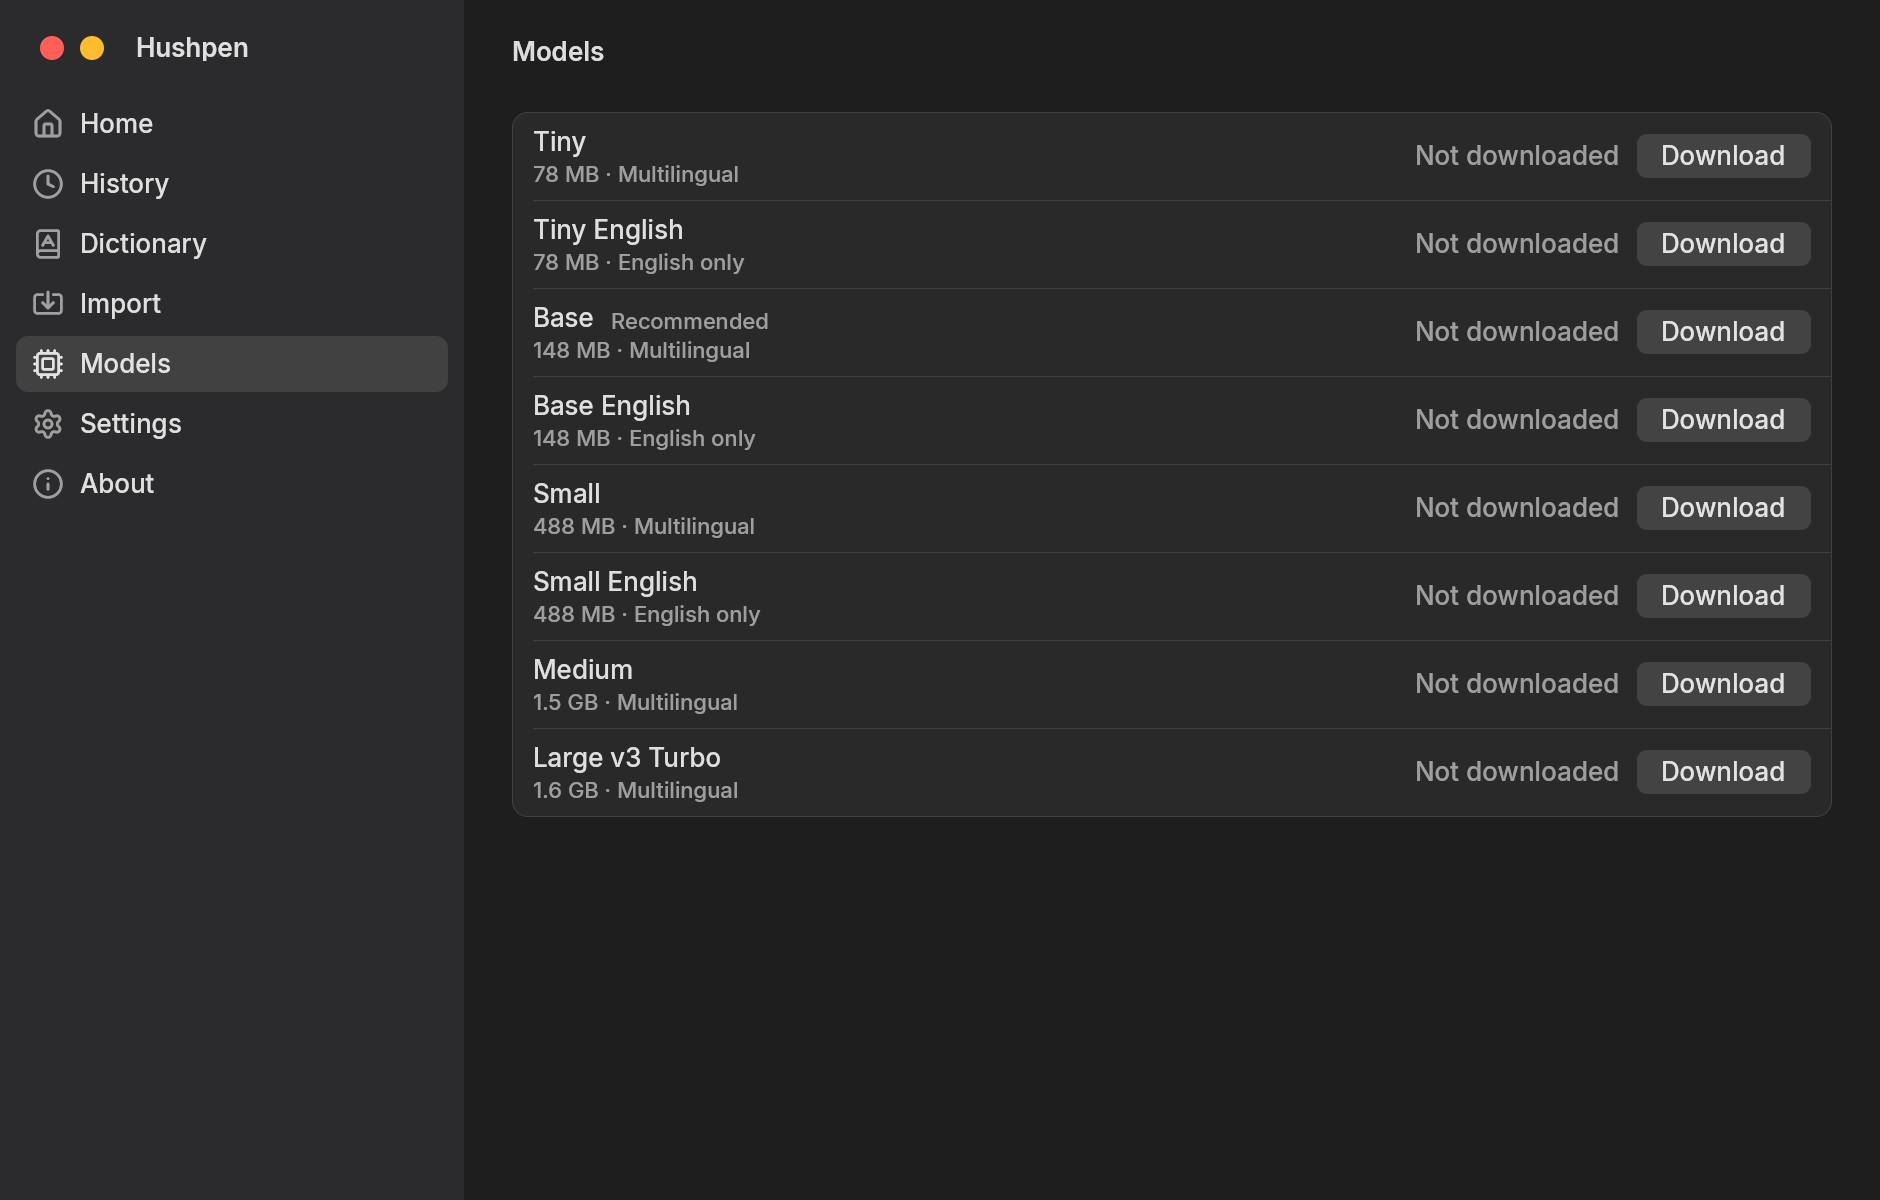
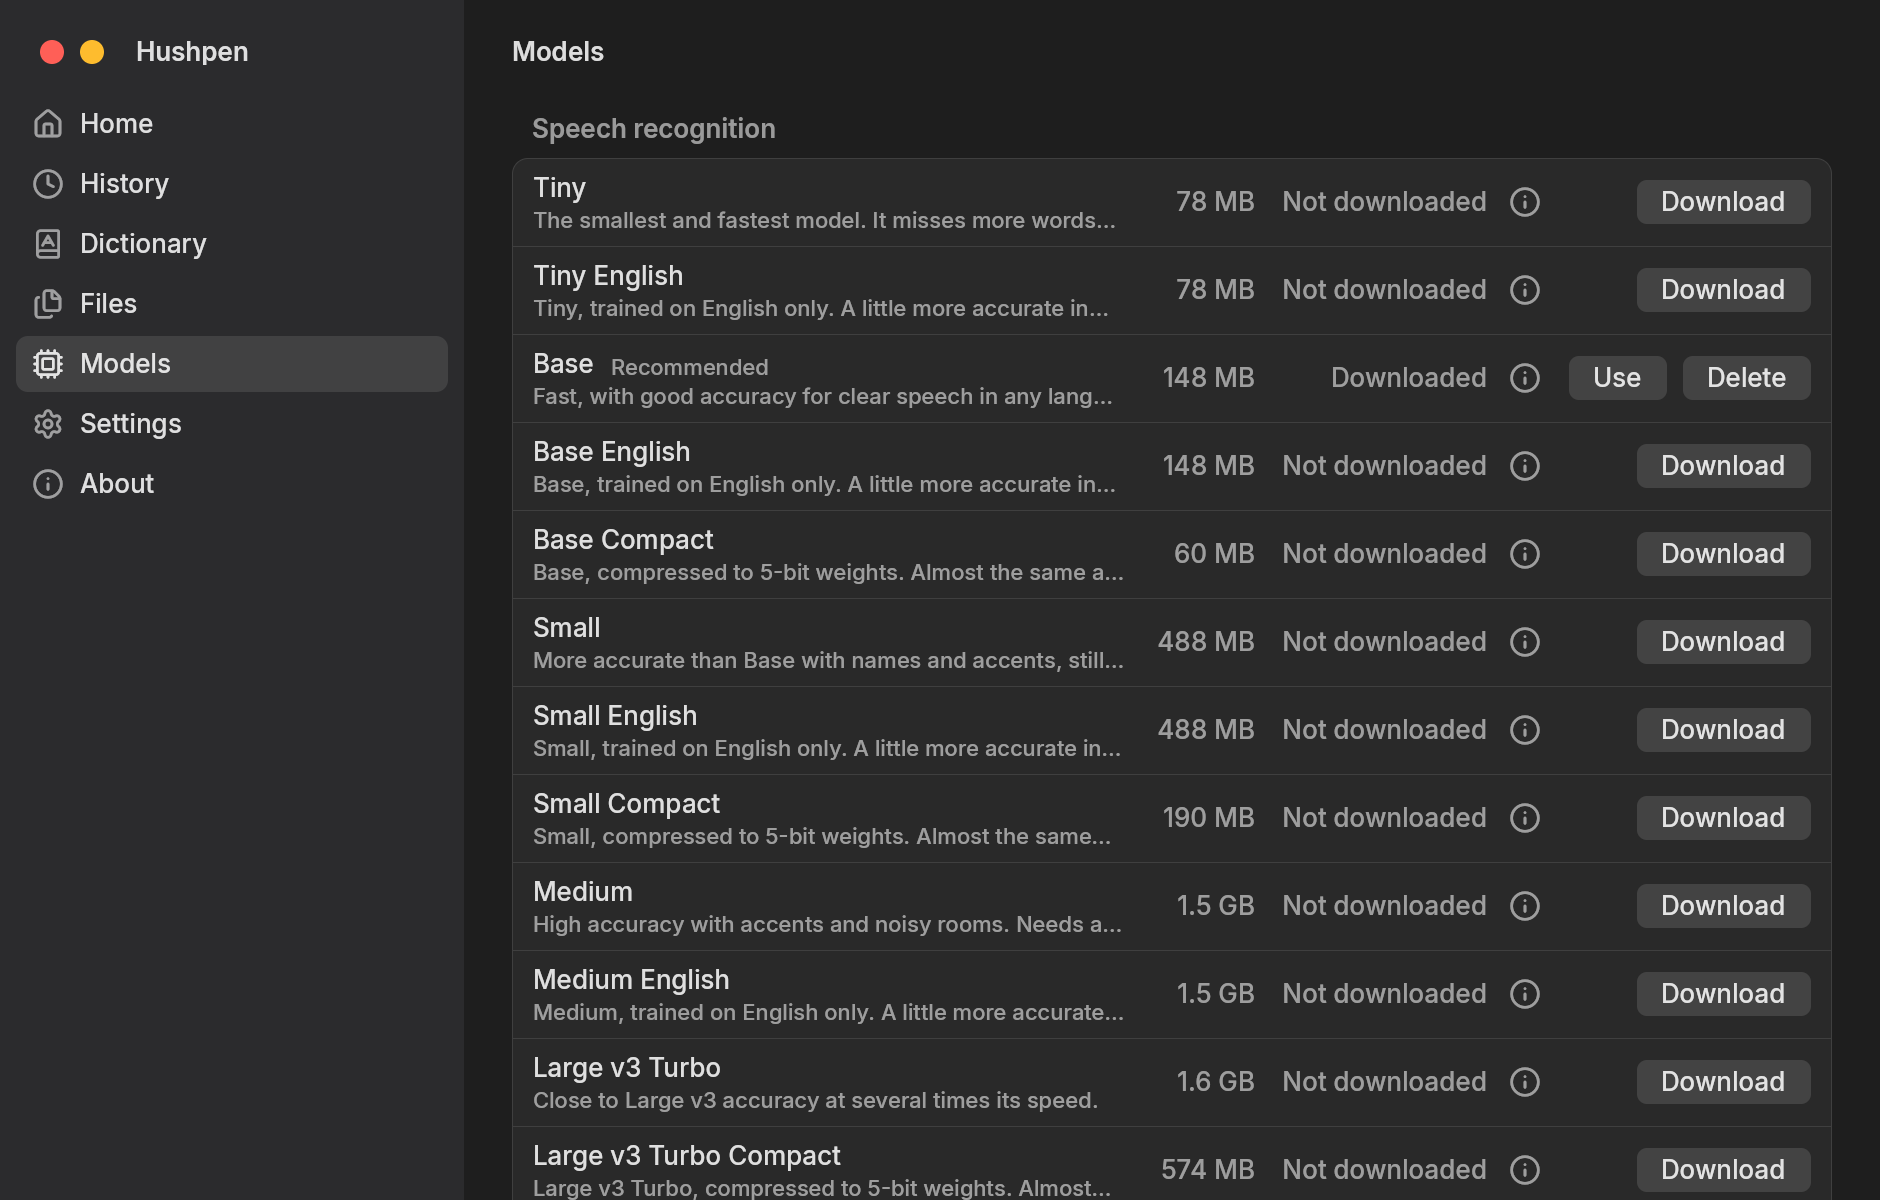
Show Files and Read aloud on the docs site
The screenshots still showed the Import view and the old Models list.
They now come from the current Dark renders, with two new slides.

diff --git a/docs/index.html b/docs/index.html
@@ -45,7 +45,7 @@
             </div>
             <div class="terminal-row">
               <span class="terminal-key">local models</span>
-              <span>Whisper models from tiny to large-v3, plus cleanup and voice models. Each one shows its speed, accuracy, and source, and downloads only when you ask, with a checked hash.</span>
+              <span>Whisper models from Tiny to Large v3, plus text cleanup and voice models. Each one shows what it is for, its speed, accuracy, and source, and downloads only when you ask, with a checked hash.</span>
             </div>
             <div class="terminal-row">
               <span class="terminal-key">paste</span>
@@ -143,9 +143,23 @@
 
           <figure class="screenshot-slide" aria-hidden="true">
             <div class="screenshot-frame">
-              <img src="./screenshots/hushpen-models.png" alt="Hushpen Models view listing Whisper models from Tiny to Large v3 Turbo" />
+              <img src="./screenshots/hushpen-files.png" alt="Hushpen Files view in Transcribe mode with the drop zone and the transcription options" />
             </div>
-            <figcaption><strong>Models</strong><span>Whisper models, downloaded only when you ask</span></figcaption>
+            <figcaption><strong>Files</strong><span>drop audio files to transcribe or translate them in a queue</span></figcaption>
+          </figure>
+
+          <figure class="screenshot-slide" aria-hidden="true">
+            <div class="screenshot-frame">
+              <img src="./screenshots/hushpen-read-aloud.png" alt="Hushpen Files view in Read aloud mode with the text area and the voice settings" />
+            </div>
+            <figcaption><strong>Read aloud</strong><span>text or a text file, spoken by the system voice or Kokoro</span></figcaption>
+          </figure>
+
+          <figure class="screenshot-slide" aria-hidden="true">
+            <div class="screenshot-frame">
+              <img src="./screenshots/hushpen-models.png" alt="Hushpen Models view at the speech recognition section, with the size, status, and details button of each Whisper model" />
+            </div>
+            <figcaption><strong>Models</strong><span>speech, text cleanup, and voice models, downloaded only when you ask</span></figcaption>
           </figure>
 
           <figure class="screenshot-slide" aria-hidden="true">
@@ -159,6 +173,8 @@
         <div class="carousel-dots" aria-label="Choose screenshot">
           <button type="button" aria-label="Show Home screenshot" aria-current="true" data-carousel-dot></button>
           <button type="button" aria-label="Show History screenshot" data-carousel-dot></button>
+          <button type="button" aria-label="Show Files screenshot" data-carousel-dot></button>
+          <button type="button" aria-label="Show Read aloud screenshot" data-carousel-dot></button>
           <button type="button" aria-label="Show Models screenshot" data-carousel-dot></button>
           <button type="button" aria-label="Show Cleanup screenshot" data-carousel-dot></button>
         </div>
@@ -172,7 +188,7 @@
             <li><strong>Command Mode</strong>: hold a key, speak an instruction, and the model edits the selected text</li>
             <li><strong>Dictionary</strong>: your own words and replacements</li>
             <li><strong>History</strong>: search, re-paste, reprocess, delete with undo, and export to TXT, SRT, VTT, and JSON</li>
-            <li><strong>Files</strong>: drop audio files on the window to transcribe or translate them in a queue, with the time left, Copy, Export, and Retry</li>
+            <li><strong>Files</strong>: drop audio files on the window to transcribe or translate them in a queue, with the time left, Copy, Export, Show in History, and Retry</li>
             <li><strong>Read aloud</strong>: text or a .txt or .md file, spoken by the system voice or Kokoro, with Export Audio to WAV</li>
             <li><strong>AI cleanup</strong>: a local model, or an OpenAI-compatible endpoint such as Ollama or LM Studio</li>
           </ul>

diff --git a/docs/getting-started.html b/docs/getting-started.html
@@ -109,7 +109,7 @@
         <section id="permissions" class="doc-section">
           <h2>macOS permissions</h2>
           <p>
-            Hushpen asks for three permissions in its first-run setup. Each row has an Allow button, and the status updates live.
+            Hushpen asks for three permissions in its first-run setup. Each row has Allow and Open Settings buttons, and the status updates live.
           </p>
           <div class="doc-table-wrap">
             <table class="doc-table">
@@ -172,8 +172,9 @@ tccutil reset Accessibility io.github.surajmandalcell.hushpen</pre>
             <li>let go to finish. Hushpen cleans up the text and pastes it. Press Esc to cancel.</li>
           </ul>
           <p>
-            The flow bar shows the dictation state without taking focus. To use another key, record it in Settings &gt; Shortcuts.
-            Home also has a Record button and a language choice.
+            The flow bar shows the dictation state without taking focus. To use another key, record it in the Shortcuts section of
+            Settings. Settings is one list with a search field: press Cmd+F (Ctrl+F on Linux) and type to find a setting. Home also
+            has a Record button and a language choice.
           </p>
           <p>
             The Models view lists speech, text cleanup, and voice models, and marks the recommended one of each kind.
@@ -186,7 +187,7 @@ tccutil reset Accessibility io.github.surajmandalcell.hushpen</pre>
           <h2>Your data</h2>
           <p>
             Hushpen keeps its settings, history database, downloaded models, saved dictation audio, and logs in one data
-            folder. Move it in Settings &gt; Storage.
+            folder. Move it in the Storage section of Settings.
           </p>
           <div class="doc-table-wrap">
             <table class="doc-table">
